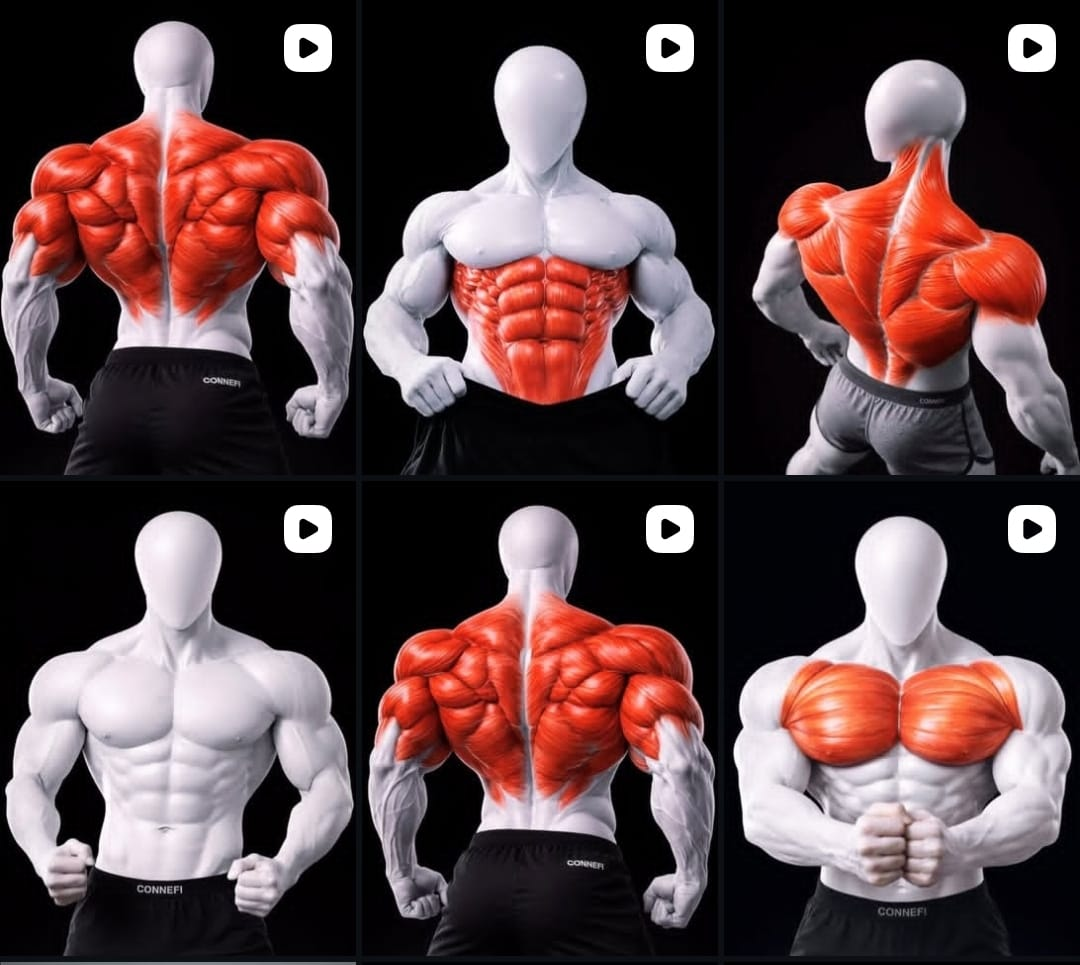
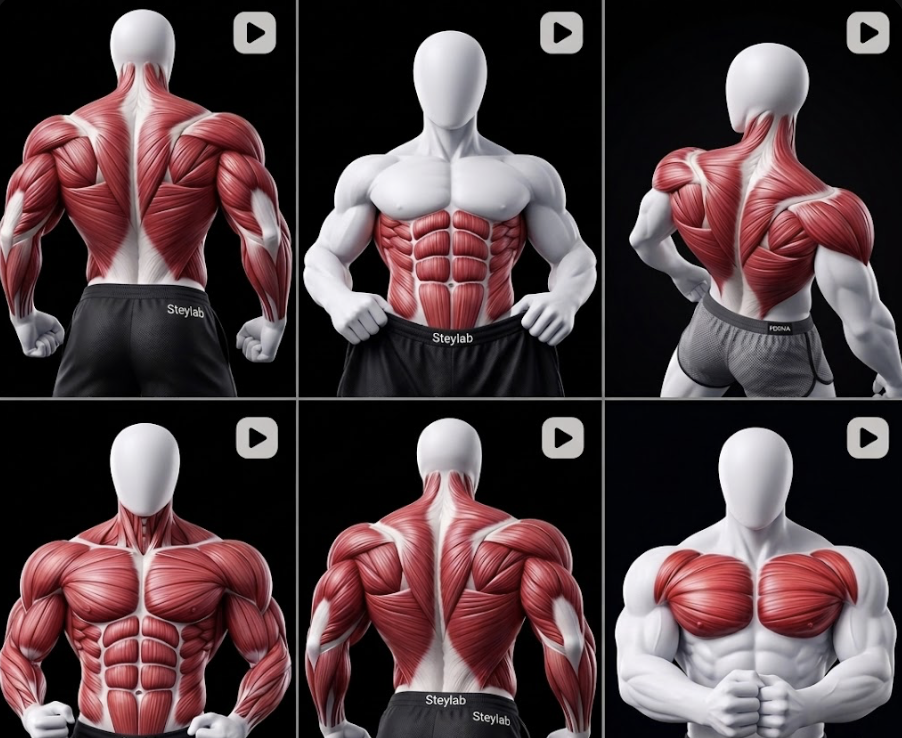
Add files via upload

diff --git a/docs/Steylab/main.js b/docs/Steylab/main.js
@@ -186,7 +186,7 @@ const translations = {
     "cta.lead":
       "SteyLab t'accompagne chaque jour. Entraînement, nutrition, progression : tout est dans la même app.",
     "cta.button": "Télécharger l'app",
-    footer: "SteyLab © 2025 — Application sportive pour femmes & hommes.",
+    footer: "SteyLab © 2026 — Application sportive pour femmes & hommes.",
     "lang.title": "Choisis ta langue",
     "lang.subtitle": "Tu pourras changer à tout moment.",
   },
@@ -267,7 +267,7 @@ const translations = {
     "cta.lead":
       "SteyLab supports you every day. Training, nutrition, progression: everything in one app.",
     "cta.button": "Download the app",
-    footer: "SteyLab © 2025 — Sports app for women & men.",
+    footer: "SteyLab © 2026 — Sports app for women & men.",
     "lang.title": "Choose your language",
     "lang.subtitle": "You can change it anytime.",
   },
